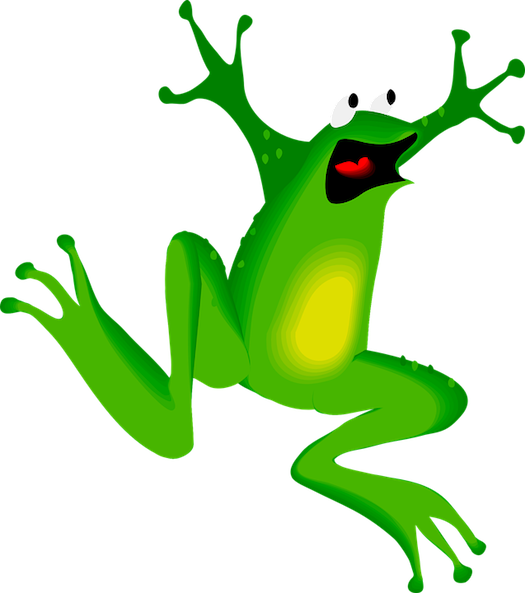
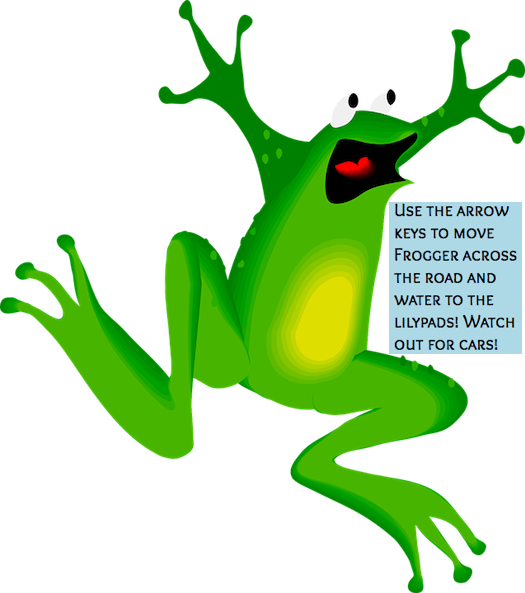
fixed text on splash screen

Changed region(s): [[0.7314, 0.3339, 1.0, 0.6071]]

diff --git a/index.html b/index.html
@@ -14,8 +14,6 @@
     <h1 class='title'>FROGGER</h1>
     <button id='start-button'>start</button>
     <section class='instructions'>
-      Use the arrow keys to move Frogger across the road and water to the
-      lilypads! Watch out for cars!
     </section>
   </section>
   <canvas id="game"

diff --git a/styles.css b/styles.css
@@ -92,6 +92,9 @@ img {
 
   .instructions {
     display: inline-block;
+    position: absolute;
+    right: 15vw;
+    bottom: 55vh;
     width: 150px;
     font-family: Overlock SC;
     font-size: 22px;
